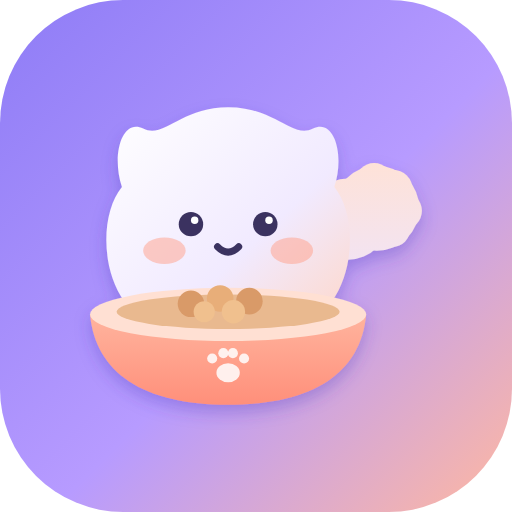
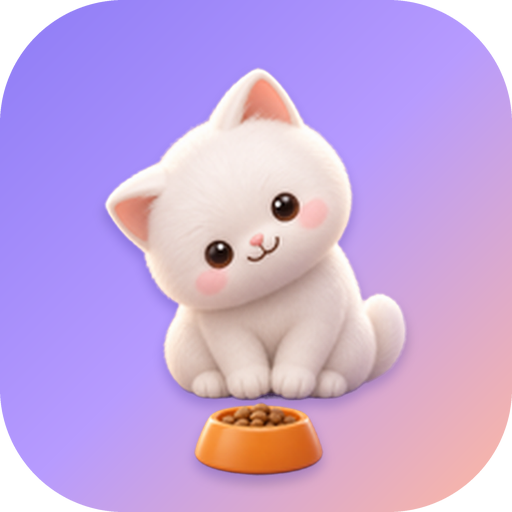
새 고양이 그림(하얀 아기 고양이+밥그릇)으로 인트로·로그인·아이콘·스플래시·소개페이지·관리자 교체
Claude-Session: https://claude.ai/code/session_01TbHN1W9UVSu49bGnHJEbMQ

diff --git a/docs/index.html b/docs/index.html
@@ -77,8 +77,8 @@
   .tabs{position:absolute;left:0;right:0;bottom:0;height:52px;background:#fff;display:flex;justify-content:space-around;align-items:center;font-size:10.5px;color:var(--muted);border-top:1px solid var(--line)}
   .tabs .on{color:var(--lav);font-weight:800}
 
-  .hero-cat{position:absolute;right:-30%;bottom:6%;width:54%;filter:drop-shadow(0 14px 22px rgba(60,40,140,.35))}
-  .hero-art{width:100%;height:auto;overflow:visible}
+  .hero-cat{position:absolute;right:-40%;bottom:3%;width:44%;filter:drop-shadow(0 14px 22px rgba(60,40,140,.35))}
+  .hero-art{width:100%;height:auto;display:block}
 
   /* 본문 */
   section{padding:96px 0}
@@ -124,7 +124,7 @@
   @media (max-width:520px){.dsteps{grid-template-columns:1fr}}
   .closing{background:linear-gradient(135deg,#8E7CF6 0%,#B79BFF 55%,#FFB8A0 100%);color:#fff;text-align:center}
   .closing p{opacity:.95;margin:0 auto 28px;max-width:32em}
-  .closing .cat{width:150px;margin:0 auto 6px;display:block;filter:drop-shadow(0 14px 22px rgba(60,40,140,.35))}
+  .closing .cat{width:120px;height:auto;margin:0 auto 6px;display:block;filter:drop-shadow(0 14px 22px rgba(60,40,140,.35))}
 
   footer{background:#221E33;color:rgba(255,255,255,.7);font-size:14px;padding:36px 0}
   footer .row{display:flex;flex-wrap:wrap;justify-content:space-between;gap:16px}
@@ -137,7 +137,7 @@
     .grid,.steps{grid-template-columns:1fr}
     section{padding:68px 0}
     .nav a.link.hide-sm{display:none}
-    .hero-cat{right:-14%;bottom:8%;width:44%}
+    .hero-cat{display:none}
   }
   @media (prefers-reduced-motion:reduce){*{animation:none!important;transition:none!important}}
 </style>
@@ -179,39 +179,7 @@
           <div class="card"><b>공원 벤치 뒤 급식소</b>오늘 저녁 7:00 알림 · 단골 3마리<div class="chips"><span class="chip">치즈</span><span class="chip">고등어</span><span class="chip">삼색이</span></div></div>
           <div class="tabs"><span class="on">지도</span><span>일정</span><span>함께</span><span>이웃</span><span>탐정</span></div>
         </div>
-        <div class="hero-cat"><svg xmlns="http://www.w3.org/2000/svg" viewBox="-32 0 184 148" class="hero-art" role="img" aria-label="밥그릇 앞에서 꼬리를 흔드는 고양이">
-    <defs>
-      <linearGradient id="nkBody" x1="0" y1="0" x2="1" y2="1"><stop offset="0" stop-color="#FFFFFF"/><stop offset=".6" stop-color="#F1EAFF"/><stop offset="1" stop-color="#FFD6C6"/></linearGradient>
-      <radialGradient id="nkGloss" cx="35%" cy="25%" r="40%"><stop offset="0" stop-color="#fff" stop-opacity=".75"/><stop offset="1" stop-color="#fff" stop-opacity="0"/></radialGradient>
-      <linearGradient id="nkTail" gradientUnits="userSpaceOnUse" x1="0" y1="0" x2="0" y2="-60"><stop offset="0" stop-color="#EDE4FF"/><stop offset="1" stop-color="#FFE2D6"/></linearGradient>
-      <linearGradient id="nkBowl" x1="0" y1="0" x2="0" y2="1"><stop offset="0" stop-color="#FFB49E"/><stop offset="1" stop-color="#FF8F7A"/></linearGradient>
-      <linearGradient id="nkRim" x1="0" y1="0" x2="1" y2="0"><stop offset="0" stop-color="#FFE3D8"/><stop offset="1" stop-color="#FFD0C0"/></linearGradient>
-      <filter id="nkShadow" x="-30%" y="-30%" width="160%" height="170%"><feDropShadow dx="0" dy="8" stdDeviation="7" flood-color="#4B3BB8" flood-opacity=".3"/></filter>
-    </defs>
-    <g class="cat" filter="url(#nkShadow)">
-      <!-- 둥글고 복실복실한 꼬리: 몸 뒤에서 좌우로 살랑살랑 -->
-      <g transform="translate(60 98)"><g fill="url(#nkTail)">
-        <animateTransform attributeName="transform" type="scale" values="1 1;-1 1;1 1" keyTimes="0;0.5;1" calcMode="spline" keySplines=".45 0 .55 1;.45 0 .55 1" dur="1.6s" repeatCount="indefinite"/>
-        <circle cx="0.0" cy="0.0" r="9.0"/><circle cx="2.0" cy="-5.4" r="10.3"/><circle cx="6.1" cy="-10.6" r="11.3"/><circle cx="11.7" cy="-15.7" r="12.2"/><circle cx="18.5" cy="-20.5" r="13.0"/><circle cx="26.4" cy="-25.2" r="13.8"/><circle cx="35.3" cy="-29.6" r="14.6"/><circle cx="45.2" cy="-33.9" r="15.3"/><circle cx="56.0" cy="-38.0" r="16.0"/><circle cx="62" cy="-45" r="7.5"/><circle cx="66" cy="-37" r="7"/><circle cx="55" cy="-48" r="7"/><circle cx="62" cy="-30" r="6.5"/>
-      </g></g>
-      <g class="body">
-        <path d="M60 22 C78 22 84 34 92 30 C100 26 104 40 100 52 C110 64 108 96 88 104 C76 109 44 109 32 104 C12 96 10 64 20 52 C16 40 20 26 28 30 C36 34 42 22 60 22Z" fill="url(#nkBody)"/>
-        <path d="M60 22 C78 22 84 34 92 30 C100 26 104 40 100 52 C110 64 108 96 88 104 C76 109 44 109 32 104 C12 96 10 64 20 52 C16 40 20 26 28 30 C36 34 42 22 60 22Z" fill="url(#nkGloss)"/>
-        <circle cx="46" cy="66" r="4.2" fill="#3B3360"/><circle cx="74" cy="66" r="4.2" fill="#3B3360"/>
-        <circle cx="47.3" cy="64.6" r="1.3" fill="#fff"/><circle cx="75.3" cy="64.6" r="1.3" fill="#fff"/>
-        <path d="M56 74 q4 4 8 0" stroke="#3B3360" stroke-width="2.4" fill="none" stroke-linecap="round"/>
-        <ellipse cx="36" cy="76" rx="8" ry="5" fill="#FF9F8A" opacity=".45"/><ellipse cx="84" cy="76" rx="8" ry="5" fill="#FF9F8A" opacity=".45"/>
-      </g>
-    </g>
-    <g class="bowl" filter="url(#nkShadow)" transform="translate(0 84)">
-      <path d="M8 22 H112 C110 44 92 56 60 56 C28 56 10 44 8 22Z" fill="url(#nkBowl)"/>
-      <ellipse cx="60" cy="22" rx="52" ry="10" fill="url(#nkRim)"/>
-      <ellipse cx="60" cy="21" rx="42" ry="6.5" fill="#E9B98F"/>
-      <circle cx="44" cy="18" r="4.5" fill="#D99A68"/><circle cx="54" cy="16" r="4.5" fill="#E8AE79"/><circle cx="64" cy="17" r="4.5" fill="#D99A68"/><circle cx="74" cy="18" r="4.5" fill="#E8AE79"/><circle cx="59" cy="20" r="4" fill="#F0C08E"/><circle cx="49" cy="21" r="3.6" fill="#F0C08E"/><circle cx="69" cy="21" r="3.6" fill="#D99A68"/>
-      <path d="M30 38 q30 10 60 0" stroke="#fff" stroke-opacity=".35" stroke-width="3" fill="none" stroke-linecap="round"/>
-      <g fill="#fff" fill-opacity=".8"><ellipse cx="60" cy="45" rx="4" ry="3.3"/><circle cx="54.5" cy="40" r="1.7"/><circle cx="58.3" cy="38.2" r="1.7"/><circle cx="61.7" cy="38.2" r="1.7"/><circle cx="65.5" cy="40" r="1.7"/></g>
-    </g>
-  </svg></div>
+        <div class="hero-cat"><img class="hero-art" src="nk-cat-full.webp" width="567" height="763" alt="밥그릇 앞에 앉은 하얀 아기 고양이"></div>
       </div>
     </div>
   </div>

diff --git a/www/index.html b/www/index.html
@@ -11,39 +11,13 @@
 </head>
 <body>
 <div id="intro" class="intro" role="img" aria-label="냥's 키친">
-  <svg xmlns="http://www.w3.org/2000/svg" viewBox="-32 0 184 148" class="intro-art" role="img" aria-label="밥그릇 앞에서 꼬리를 흔드는 고양이">
-    <defs>
-      <linearGradient id="nkBody" x1="0" y1="0" x2="1" y2="1"><stop offset="0" stop-color="#FFFFFF"/><stop offset=".6" stop-color="#F1EAFF"/><stop offset="1" stop-color="#FFD6C6"/></linearGradient>
-      <radialGradient id="nkGloss" cx="35%" cy="25%" r="40%"><stop offset="0" stop-color="#fff" stop-opacity=".75"/><stop offset="1" stop-color="#fff" stop-opacity="0"/></radialGradient>
-      <linearGradient id="nkTail" gradientUnits="userSpaceOnUse" x1="0" y1="0" x2="0" y2="-60"><stop offset="0" stop-color="#EDE4FF"/><stop offset="1" stop-color="#FFE2D6"/></linearGradient>
-      <linearGradient id="nkBowl" x1="0" y1="0" x2="0" y2="1"><stop offset="0" stop-color="#FFB49E"/><stop offset="1" stop-color="#FF8F7A"/></linearGradient>
-      <linearGradient id="nkRim" x1="0" y1="0" x2="1" y2="0"><stop offset="0" stop-color="#FFE3D8"/><stop offset="1" stop-color="#FFD0C0"/></linearGradient>
-      <filter id="nkShadow" x="-30%" y="-30%" width="160%" height="170%"><feDropShadow dx="0" dy="8" stdDeviation="7" flood-color="#4B3BB8" flood-opacity=".3"/></filter>
-    </defs>
-    <g class="cat" filter="url(#nkShadow)">
-      <!-- 둥글고 복실복실한 꼬리: 몸 뒤에서 좌우로 살랑살랑 -->
-      <g transform="translate(60 98)"><g fill="url(#nkTail)">
-        <animateTransform attributeName="transform" type="scale" values="1 1;-1 1;1 1" keyTimes="0;0.5;1" calcMode="spline" keySplines=".45 0 .55 1;.45 0 .55 1" dur="1.6s" repeatCount="indefinite"/>
-        <circle cx="0.0" cy="0.0" r="9.0"/><circle cx="2.0" cy="-5.4" r="10.3"/><circle cx="6.1" cy="-10.6" r="11.3"/><circle cx="11.7" cy="-15.7" r="12.2"/><circle cx="18.5" cy="-20.5" r="13.0"/><circle cx="26.4" cy="-25.2" r="13.8"/><circle cx="35.3" cy="-29.6" r="14.6"/><circle cx="45.2" cy="-33.9" r="15.3"/><circle cx="56.0" cy="-38.0" r="16.0"/><circle cx="62" cy="-45" r="7.5"/><circle cx="66" cy="-37" r="7"/><circle cx="55" cy="-48" r="7"/><circle cx="62" cy="-30" r="6.5"/>
-      </g></g>
-      <g class="body">
-        <path d="M60 22 C78 22 84 34 92 30 C100 26 104 40 100 52 C110 64 108 96 88 104 C76 109 44 109 32 104 C12 96 10 64 20 52 C16 40 20 26 28 30 C36 34 42 22 60 22Z" fill="url(#nkBody)"/>
-        <path d="M60 22 C78 22 84 34 92 30 C100 26 104 40 100 52 C110 64 108 96 88 104 C76 109 44 109 32 104 C12 96 10 64 20 52 C16 40 20 26 28 30 C36 34 42 22 60 22Z" fill="url(#nkGloss)"/>
-        <circle cx="46" cy="66" r="4.2" fill="#3B3360"/><circle cx="74" cy="66" r="4.2" fill="#3B3360"/>
-        <circle cx="47.3" cy="64.6" r="1.3" fill="#fff"/><circle cx="75.3" cy="64.6" r="1.3" fill="#fff"/>
-        <path d="M56 74 q4 4 8 0" stroke="#3B3360" stroke-width="2.4" fill="none" stroke-linecap="round"/>
-        <ellipse cx="36" cy="76" rx="8" ry="5" fill="#FF9F8A" opacity=".45"/><ellipse cx="84" cy="76" rx="8" ry="5" fill="#FF9F8A" opacity=".45"/>
-      </g>
-    </g>
-    <g class="bowl" filter="url(#nkShadow)" transform="translate(0 84)">
-      <path d="M8 22 H112 C110 44 92 56 60 56 C28 56 10 44 8 22Z" fill="url(#nkBowl)"/>
-      <ellipse cx="60" cy="22" rx="52" ry="10" fill="url(#nkRim)"/>
-      <ellipse cx="60" cy="21" rx="42" ry="6.5" fill="#E9B98F"/>
-      <circle cx="44" cy="18" r="4.5" fill="#D99A68"/><circle cx="54" cy="16" r="4.5" fill="#E8AE79"/><circle cx="64" cy="17" r="4.5" fill="#D99A68"/><circle cx="74" cy="18" r="4.5" fill="#E8AE79"/><circle cx="59" cy="20" r="4" fill="#F0C08E"/><circle cx="49" cy="21" r="3.6" fill="#F0C08E"/><circle cx="69" cy="21" r="3.6" fill="#D99A68"/>
-      <path d="M30 38 q30 10 60 0" stroke="#fff" stroke-opacity=".35" stroke-width="3" fill="none" stroke-linecap="round"/>
-      <g fill="#fff" fill-opacity=".8"><ellipse cx="60" cy="45" rx="4" ry="3.3"/><circle cx="54.5" cy="40" r="1.7"/><circle cx="58.3" cy="38.2" r="1.7"/><circle cx="61.7" cy="38.2" r="1.7"/><circle cx="65.5" cy="40" r="1.7"/></g>
-    </g>
-  </svg>
+  <div class="intro-art nk-art" role="img" aria-label="밥그릇 앞에 앉은 하얀 아기 고양이">
+    <span class="nk-shadow"></span>
+    <img class="nk-cat" src="img/nk-cat.webp" alt="" width="567" height="625" decoding="async">
+    <img class="nk-bowl" src="img/nk-bowl.webp" alt="" width="245" height="137" decoding="async">
+    <svg class="nk-heart h1" viewBox="0 0 24 22" aria-hidden="true"><path d="M12 21C5 15.5 1 12 1 7a5.5 5.5 0 0 1 11-1 5.5 5.5 0 0 1 11 1c0 5-4 8.5-11 14z"/></svg>
+    <svg class="nk-heart h2" viewBox="0 0 24 22" aria-hidden="true"><path d="M12 21C5 15.5 1 12 1 7a5.5 5.5 0 0 1 11-1 5.5 5.5 0 0 1 11 1c0 5-4 8.5-11 14z"/></svg>
+  </div>
   <h1 class="intro-title">냥's 키친</h1>
   <p class="intro-sub">길고양이 밥 주는 사람들의 작은 부엌</p>
 </div>

diff --git a/www/style.css b/www/style.css
@@ -171,15 +171,9 @@ button{cursor:pointer}
 .intro::before{width:240px;height:240px;background:#FFD9C7;left:-80px;top:12%}
 .intro::after{width:280px;height:280px;background:#A99BFF;right:-90px;bottom:14%}
 .intro.hide{opacity:0;pointer-events:none}
-.intro-art{width:min(66vw,280px);height:auto;overflow:visible;position:relative;z-index:1}
-.intro-art .bowl{animation:nkBowlIn .55s var(--spring) both}
-.intro-art .cat{animation:nkCatIn .7s .18s var(--spring) both}
-.intro-art .body{transform-box:fill-box;transform-origin:50% 100%;animation:nkBreath 2.4s 1s ease-in-out infinite}
-.intro-title{position:relative;z-index:1;margin:6px 0 0;font-family:var(--display);font-weight:800;font-size:42px;line-height:1.1;color:#fff;letter-spacing:-.8px;text-shadow:0 2px 16px rgba(80,50,170,.35);animation:nkRise .6s .5s var(--spring) both}
+.intro-art{width:min(58vw,250px);position:relative;z-index:1}
+.intro-title{position:relative;z-index:1;margin:18px 0 0;font-family:var(--display);font-weight:800;font-size:42px;line-height:1.1;color:#fff;letter-spacing:-.8px;text-shadow:0 2px 16px rgba(80,50,170,.35);animation:nkRise .6s .5s var(--spring) both}
 .intro-sub{position:relative;z-index:1;margin:6px 0 0;font-size:16px;font-weight:600;color:#fff;font-family:var(--body);text-shadow:0 1px 10px rgba(80,50,170,.45);animation:nkRise .6s .62s var(--spring) both}
-@keyframes nkBowlIn{from{transform:translate(0,108px) scale(.6);opacity:0}to{transform:translate(0,84px)}}
-@keyframes nkCatIn{from{transform:translateY(40px) scale(.85);opacity:0}}
-@keyframes nkBreath{0%,100%{transform:scale(1)}50%{transform:scale(1.035,.975)}}
 @keyframes nkBob{0%,100%{transform:translateY(0)}50%{transform:translateY(-5px)}}
 .brand,.h-display{font-family:var(--display)}
 
@@ -198,9 +192,8 @@ button{cursor:pointer}
 .auth.hide{opacity:0;pointer-events:none}
 .auth-hero{flex:1;display:flex;flex-direction:column;align-items:center;justify-content:center;padding:28px 24px 20px;min-height:250px;text-align:center}
 .auth-hero.compact{flex:0 0 auto;min-height:0;padding:16px 24px 14px}
-.auth-art{width:min(46vw,190px);height:auto;overflow:visible}
-.auth-hero.compact .auth-art{width:84px}
-.auth-art .body{transform-box:fill-box;transform-origin:50% 100%;animation:nkBreath 2.4s ease-in-out infinite}
+.auth-art{width:min(40vw,168px);margin-bottom:12px}
+.auth-hero.compact .auth-art{width:64px;margin-bottom:6px}
 .auth-title{margin:6px 0 0;font-family:var(--display);font-weight:800;font-size:36px;line-height:1.1;color:#fff;letter-spacing:-.8px;text-shadow:0 2px 16px rgba(80,50,170,.35)}
 .auth-hero.compact .auth-title{font-size:24px}
 .auth-sub{margin:6px 0 0;color:#fff;font-size:15px;font-weight:600;text-shadow:0 1px 10px rgba(80,50,170,.45)}
@@ -282,3 +275,20 @@ button{cursor:pointer}
 .auth-hero{transition:opacity .45s .2s ease}
 #intro ~ #auth .auth-hero{opacity:0;transition:none}
 @media (prefers-color-scheme: dark){.brand{background:linear-gradient(120deg,#B9ADFF 0%,#CDB8FF 55%,#FFB8A0 100%);-webkit-background-clip:text;background-clip:text}}
+
+/* 고양이 그림(인트로·로그인 공용) */
+.nk-art{position:relative;aspect-ratio:567/763}
+.nk-art img{position:absolute;display:block;height:auto;user-select:none;-webkit-user-drag:none;pointer-events:none}
+.nk-cat{left:0;top:0;width:100%;transform-origin:50% 96%;filter:drop-shadow(0 10px 18px rgba(75,59,184,.28));animation:nkCatIn .75s .2s var(--spring) both,nkBreath 2.8s 1.1s ease-in-out infinite}
+.nk-bowl{left:29.45%;top:82.04%;width:43.2%;filter:drop-shadow(0 6px 10px rgba(180,80,40,.28));animation:nkBowlIn .55s var(--spring) both}
+.nk-shadow{position:absolute;left:10%;right:10%;bottom:-2%;height:8%;border-radius:50%;background:radial-gradient(closest-side,rgba(75,59,184,.32),rgba(75,59,184,0));animation:nkFade .6s .3s both}
+.nk-heart{position:absolute;width:9%;fill:#FFB8A0;opacity:0;filter:drop-shadow(0 2px 4px rgba(255,120,100,.35))}
+.nk-heart.h1{left:76%;top:14%;animation:nkHeart 3.2s 1.2s ease-out infinite}
+.nk-heart.h2{left:84%;top:24%;width:6.5%;fill:#fff;animation:nkHeart 3.2s 2.6s ease-out infinite}
+@keyframes nkCatIn{from{transform:translateY(16%) scale(.86);opacity:0}}
+@keyframes nkBowlIn{from{transform:translateY(40%) scale(.6);opacity:0}}
+@keyframes nkFade{from{opacity:0}}
+@keyframes nkBreath{0%,100%{transform:scale(1) rotate(0)}30%{transform:scale(1.02,.985) rotate(-1.2deg)}60%{transform:scale(1.01,.992) rotate(.8deg)}}
+@keyframes nkHeart{0%{opacity:0;transform:translateY(0) scale(.5)}18%{opacity:1;transform:translateY(-10px) scale(1)}70%{opacity:.85}100%{opacity:0;transform:translateY(-46px) scale(.9) rotate(12deg)}}
+.auth-art .nk-heart,.auth-hero.compact .nk-shadow{display:none}
+@media (prefers-reduced-motion:reduce){.nk-art *{animation:none!important;opacity:1}.nk-heart{display:none}}

diff --git a/www/auth.js b/www/auth.js
@@ -66,10 +66,8 @@ function friendly(err) {
 function say(msg, kind) { notice = msg || ''; noticeKind = kind || 'info'; render(); }
 
 /* ---------- 화면 ---------- */
-const catSvg = () => {
-  const s = document.querySelector('#intro svg');
-  return s ? s.outerHTML.replace('class="intro-art"', 'class="auth-art"') : '';
-};
+const catSvg = () => '<div class="auth-art nk-art" role="img" aria-label="밥그릇 앞에 앉은 하얀 아기 고양이"><span class="nk-shadow"></span>'
+  + '<img class="nk-cat" src="img/nk-cat.webp" alt="" width="567" height="625"><img class="nk-bowl" src="img/nk-bowl.webp" alt="" width="245" height="137"></div>';
 let CAT = '';
 
 const KAKAO_ICON = '<svg width="20" height="20" viewBox="0 0 24 24" aria-hidden="true"><path fill="#000" d="M12 3.2C6.5 3.2 2 6.7 2 11c0 2.8 1.9 5.2 4.7 6.6l-1 3.7c-.1.4.3.7.6.5l4.4-2.9c.4 0 .9.1 1.3.1 5.5 0 10-3.5 10-7.9S17.5 3.2 12 3.2z"/></svg>';

diff --git a/docs/join.html b/docs/join.html
@@ -15,7 +15,7 @@
   *{box-sizing:border-box}
   body{margin:0;min-height:100vh;background:linear-gradient(165deg,#8E7CF6 0%,#B79BFF 48%,#FFC2AC 100%);color:#fff;font:16px/1.65 'SUIT Variable','Noto Sans KR',system-ui,sans-serif;display:grid;place-items:center;padding:28px 16px}
   main{width:100%;max-width:420px;text-align:center}
-  img.cat{width:130px;height:130px;filter:drop-shadow(0 14px 22px rgba(60,40,140,.35))}
+  img.cat{width:104px;height:auto;filter:drop-shadow(0 14px 22px rgba(60,40,140,.35))}
   h1{font:800 30px/1.25 'SUIT Variable','Noto Sans KR',sans-serif;letter-spacing:-.6px;margin:8px 0 6px;text-shadow:0 2px 16px rgba(80,50,170,.3)}
   p{margin:0 0 18px;opacity:.9}
   .code{font:800 44px/1 'SUIT Variable',monospace;letter-spacing:8px;color:#7B6CF0;background:#fff;border-radius:24px;box-shadow:0 18px 40px -20px rgba(60,40,140,.6);padding:18px 8px;margin:6px 0 10px}
